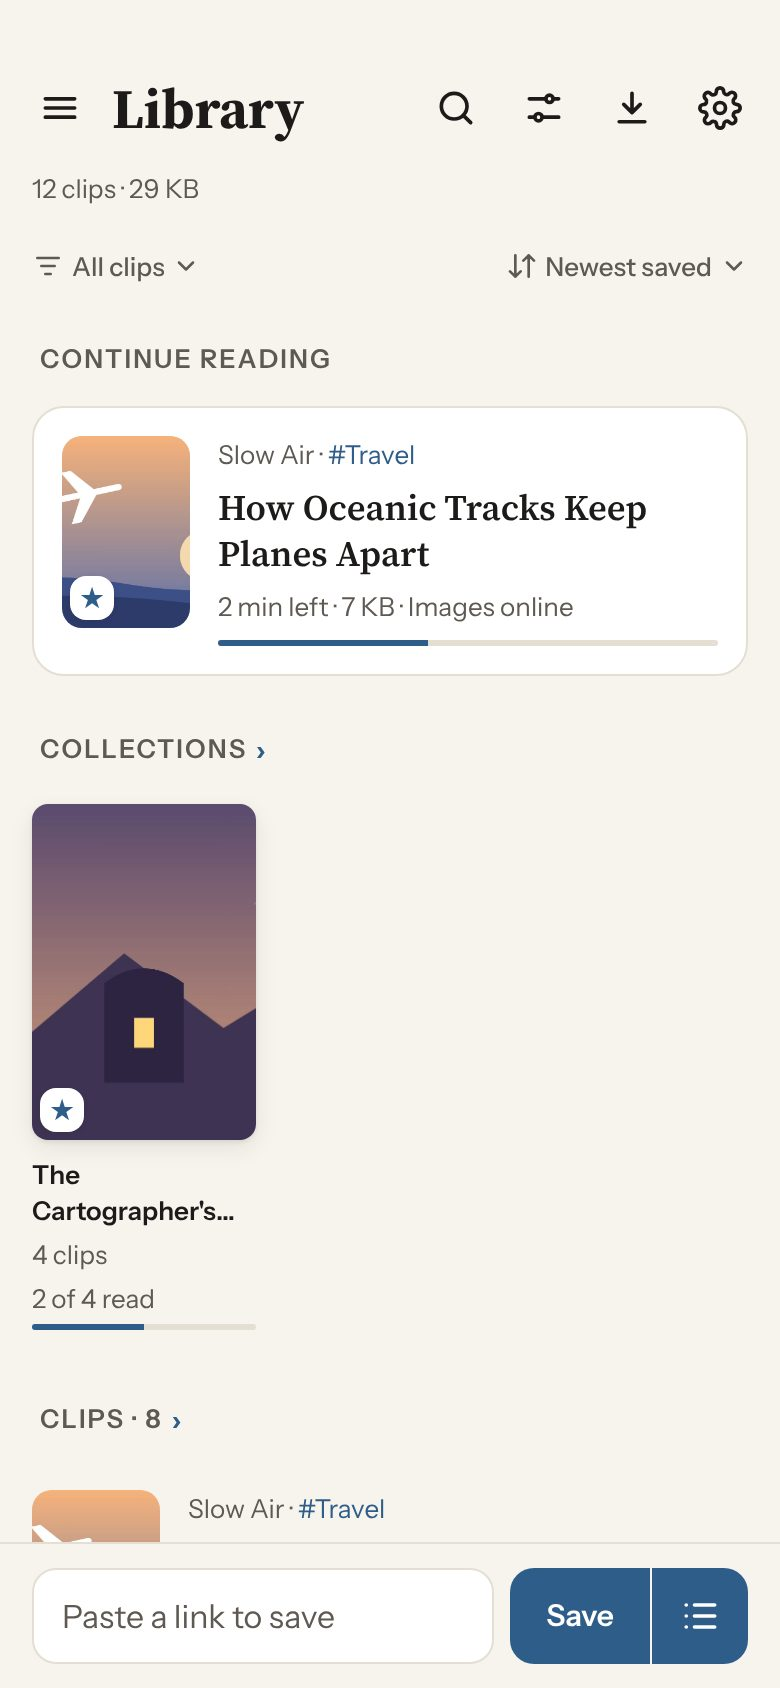
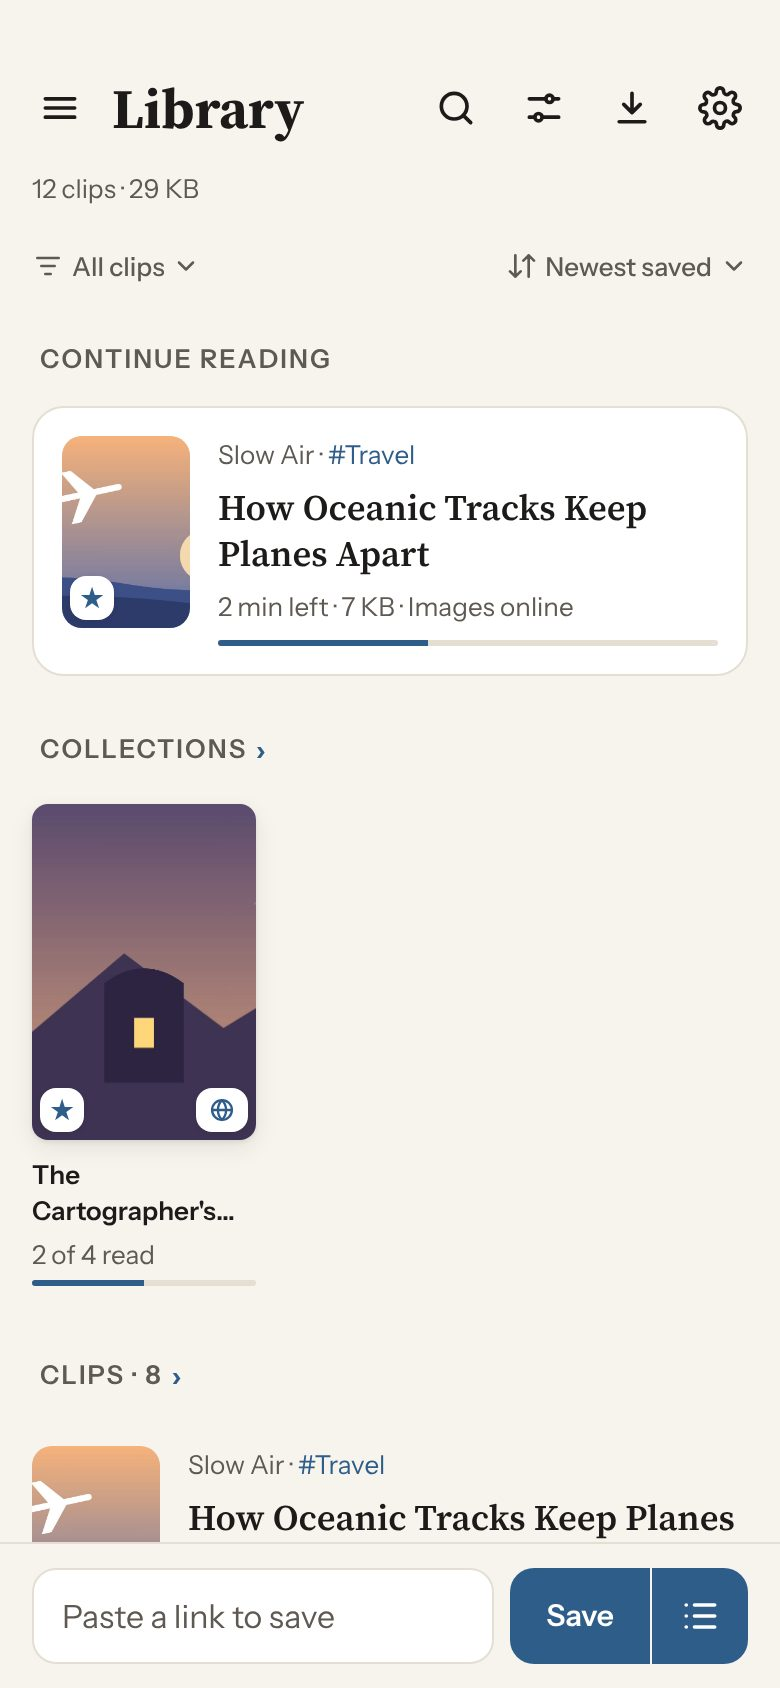
Collection covers show what they hold as marks, not a text line (#270)
Daniel asked for icons on the cover instead of the "8 clips, 2 files"
line: a small pill on the cover's bottom corner (opposite the favourite
star) with a mark per kind present: a globe for clips, a page for
files, headphones for audiobooks, a pencil for notes. The words stay in
the tile's spoken label.

Claude-Session: https://claude.ai/code/session_01CFeKrhHfn9pBSriS1b1puo

Changed region(s): [[0.0308, 0.7393, 0.2154, 0.9242], [0.2462, 0.8626, 0.9538, 0.9242], [0.2462, 0.6469, 0.3385, 0.6777]]

diff --git a/src/app-library.js b/src/app-library.js
@@ -153,6 +153,22 @@ async function setFolder(p, name) {
 // 2 files". A copy made from a file is a clip, as in the library.
 const HOLDS = [["note", "note", "notes"], ["audio", "audiobook", "audiobooks"], ["file", "file", "files"], ["clip", "clip", "clips"]];
 const holdKind = (p) => (p.note ? "note" : isAudiobook(p) ? "audio" : p.link ? "file" : "clip");
+// ...and as marks along the bottom of its cover, one per kind it holds,
+// in the library's order: clips, files, audiobooks, notes.
+const HOLD_ICONS = {
+  clip: '<circle cx="12" cy="12" r="8.5"/><path d="M3.5 12h17M12 3.5c2.4 2.4 3.5 5.3 3.5 8.5s-1.1 6.1-3.5 8.5c-2.4-2.4-3.5-5.3-3.5-8.5s1.1-6.1 3.5-8.5z"/>',
+  file: '<path d="M14 3H7a2 2 0 0 0-2 2v14a2 2 0 0 0 2 2h10a2 2 0 0 0 2-2V8z"/><path d="M14 3v5h5"/>',
+  audio: '<path d="M4 15v-3a8 8 0 0 1 16 0v3M4 15h3v5H5a1 1 0 0 1-1-1zM20 15h-3v5h2a1 1 0 0 0 1-1z"/>',
+  note: '<path d="M4 20h4L19 9a2.8 2.8 0 0 0-4-4L4 16z"/><path d="M13.5 6.5l4 4"/>',
+};
+function holdsMarks(list) {
+  const has = new Set(list.map(holdKind));
+  const box = el("span", { class: "tile-kinds", "aria-hidden": "true" });
+  box.innerHTML = ["clip", "file", "audio", "note"].filter((k) => has.has(k)).map((k) =>
+    '<svg data-kind="' + k + '" width="14" height="14" viewBox="0 0 24 24" fill="none" stroke="currentColor" stroke-width="2" stroke-linecap="round" stroke-linejoin="round">' + HOLD_ICONS[k] + "</svg>").join("");
+  return box;
+}
+
 function holdsLine(list) {
   const n = new Map();
   for (const p of list) n.set(holdKind(p), (n.get(holdKind(p)) || 0) + 1);
@@ -185,7 +201,6 @@ function folderTile(name) {
           saveNewChapters(name, e.currentTarget);
         } }, "+" + (fresh >= NEW_MAX ? NEW_MAX : fresh)) : null),
     el("span", { class: "tile-name", dir: "auto" }, name),
-    el("span", { class: "tile-meta tile-holds" }, holdsLine(list)),
     el("span", { class: "tile-meta" }, el("span", { class: "tile-kind" }, "Collection · "), (done === list.length ? "All read" : done + " of " + list.length + " read"), el("span", { class: "tile-size" }, " · " + formatSize(sizeOf(list)))),
     el("span", { class: "progress thin", "aria-hidden": "true" },
       el("span", { class: "progress-fill", style: "transform: scaleX(" + done / list.length + ")" })));
@@ -200,6 +215,7 @@ function folderTile(name) {
   // A favourite's star in the picture's corner (1.16.0), where a book's
   // icon used to sit.
   if (fav) tile.querySelector(".tile-thumb").append(favStar());
+  tile.querySelector(".tile-thumb").append(holdsMarks(list));
   return tile;
 }
 

diff --git a/test/ui.test.js b/test/ui.test.js
@@ -1446,7 +1446,8 @@ function zipOf(files) {
       await q.reload();
       await q.waitForSelector("#saveUrl");
       await until(q, () => !!document.querySelector('.tile[data-name="Serial"]'));
-      assert.strictEqual(await q.locator('.tile[data-name="Serial"] .tile-holds').innerText(), "2 clips, 1 note");
+      assert.deepStrictEqual(await q.locator('.tile[data-name="Serial"] .tile-kinds svg').evaluateAll((s) => s.map((x) => x.dataset.kind)), ["clip", "note"]);
+      assert.ok(/collection, 2 clips, 1 note,/.test(await q.locator('.tile[data-name="Serial"] .card-open').getAttribute("aria-label")));
       await q.evaluate(() => { openFolder("Serial"); setFolderMode("order"); });
       const order = () => q.evaluate(() => folderPages("Serial").map((p) => p.id).join());
       await q.locator('[data-sort="released"]').click();

diff --git a/src/styles.css b/src/styles.css
@@ -1862,6 +1862,15 @@ span.update-text { cursor: default; }
   box-shadow: 0 1px 3px var(--shadow);
 }
 [dir="rtl"] .thumb-fav { left: auto; right: var(--s-1); }
+/* What a collection holds: a mark per kind on its cover's other corner. */
+.tile-kinds {
+  position: absolute; right: var(--s-1); bottom: var(--s-1); z-index: 1;
+  display: inline-flex; align-items: center; gap: 6px; height: 22px; padding: 0 6px;
+  border-radius: var(--r-sm); background: var(--surface); color: var(--accent);
+  box-shadow: 0 1px 3px var(--shadow);
+}
+.tile-kinds svg { display: block; flex: none; }
+[dir="rtl"] .tile-kinds { right: auto; left: var(--s-1); }
 .card-thumb.has-fav { position: relative; display: block; }
 .card-thumb.has-fav > img { display: block; width: 100%; height: 100%; object-fit: cover; border-radius: inherit; }
 

diff --git a/README.md b/README.md
@@ -59,7 +59,7 @@ Each section below shows the computer (left) and the phone (right).
 <p><img src="docs/shots/collections-desktop.jpg" width="74%" alt="A collection on a computer"> <img src="docs/shots/collections-phone.jpg" width="21%" alt="A collection on a phone"></p>
 
 - Collections are ordered folders: chapters in order, "2 of 4 read", Continue.
-- Sort a collection by chapter, release date, date added or title, or show it as covers instead of a list. Its card says what it holds (clips, files, audiobooks, notes).
+- Sort a collection by chapter, release date, date added or title, or show it as covers instead of a list. Its cover shows a mark for each kind it holds (clips, files, audiobooks, notes).
 - A collection linked to a story's page finds new chapters and shows a "+N" to save them.
 - Files: EPUB, PDF, MOBI, AZW3, FB2, CBZ, Markdown, text and HTML, copied in (a clip like any other) or read from where they are. Books keep their own contents.
 - PDFs mixing Hebrew or Arabic with English keep each line's words in order.

diff --git a/changes/feature-collection-sorts.md b/changes/feature-collection-sorts.md
@@ -1,4 +1,4 @@
 ### Added
 - Reorder in a collection sorts by Chapter, Release date, Date added or Title; tap again to turn the order around. Royal Road chapters sort by release even when saved before dates were kept; other clips pick up their date when saved (or saved again) from a site that gives one.
 - A collection can show its clips as covers instead of a list (⋯ › Show as covers), for a shelf of books. Kept on this device.
-- A collection's card in the library says what it holds: clips, files, audiobooks or notes.
+- A collection's cover in the library shows what it holds, a small mark for each kind: clips, files, audiobooks, notes.
